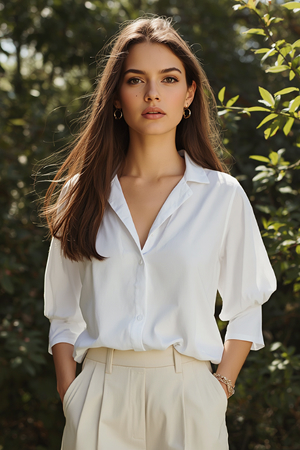
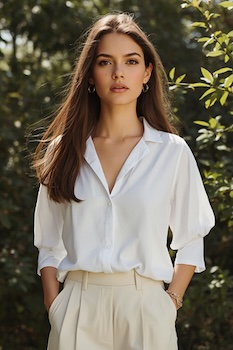
メインの編集

diff --git a/scss/project/_top.scss b/scss/project/_top.scss
@@ -214,3 +214,153 @@
         margin-top: 40px;
     }
 }
+
+@media screen and (max-width: 395px) {
+    .main-collection__newProduct-list__card {
+        padding-right: 20px;
+    }
+}
+
+.main-collection__essential-list {
+    margin-top: 120px;
+}
+
+.main-collection__essential-list__title {
+    padding-left: 20px;
+
+    font-weight: normal;
+    letter-spacing: 0.05rem;
+    color: #ffffff;
+}
+
+.main-collection__essential-list__text {
+    padding-left: 20px;
+
+    font-size: 12px;
+    letter-spacing: 0.05rem;
+    color: #ffffff;
+}
+
+.main-collection__essential-list__inner {
+    padding-left: 20px;
+    padding-right: 20px;
+    margin-top: 40px;
+
+    display: flex;
+    flex-direction: row;
+    column-gap: 20px;
+}
+
+.main-collection__essential-list__card {
+    cursor: pointer;
+}
+
+.main-collection__essential-list__card:hover {
+    background-color: #333333;
+}
+
+.main-collection__essential-list__card-text {
+    padding-top: 10px;
+    padding-left: 20px;
+    padding-bottom: 10px;
+
+    letter-spacing: 0.05rem;
+    color: #ffffff;
+    text-align: center;
+}
+
+@media screen and (max-width: 768px) {
+    .main-collection__essential-list__card-text {
+        font-size: 10px;
+    }
+}
+
+@media screen and (max-width: 395px) {
+    .main-collection__essential-list__inner {
+        flex-direction: column;
+        row-gap: 20px;
+    }
+
+    .main-collection__essential-list__image img {
+        width: 100%;
+        object-fit: cover;
+    }
+}
+
+.main-collection__recommended-list {
+    margin-top: 40px;
+}
+
+.main-collection__recommended-list__title {
+    padding-left: 20px;
+
+    font-weight: normal;
+    letter-spacing: 0.05rem;
+    color: #ffffff;   
+}
+
+.main-collection__recommended-list__text {
+    padding-left: 20px;
+
+    font-size: 12px;
+    letter-spacing: 0.05rem;
+    color: #ffffff;
+}
+
+.main-collection__recommended-list__inner {
+    padding-left: 20px;
+    padding-right: 20px;
+    margin-top: 40px;
+
+    display: flex;
+    flex-direction: row;
+    column-gap: 20px;
+}
+
+.main-collection__recommended-list__card {
+    cursor: pointer;
+}
+
+.main-collection__recommended-list__card:hover {
+    background-color: #333333;
+}
+
+.main-collection__recommended-list__card-text--primary {
+    padding-top: 10px;
+    padding-left: 20px;
+
+    letter-spacing: 0.05rem;
+    color: #ffffff;
+    text-align: center;
+}
+
+.main-collection__recommended-list__card-text--secondary {
+    padding-top: 0px;
+    padding-left: 20px;
+    padding-bottom: 10px;
+
+    letter-spacing: 0.05rem;
+    color: #ffffff;
+    text-align: center;
+}
+
+@media screen and (max-width: 768px) {
+    .main-collection__recommended-list__card-text--primary{
+        font-size: 10px;
+    }
+    
+    .main-collection__recommended-list__card-text--secondary {
+        font-size: 10px;
+    }
+}
+
+@media screen and (max-width: 395px) {
+    .main-collection__recommended-list__inner {
+        flex-direction: column;
+    }
+
+    .main-collection__recommended-list__image img {
+        width: 100%;
+        object-fit: cover;
+    }
+}

diff --git a/assets/css/main.css b/assets/css/main.css
@@ -473,5 +473,138 @@ select {
     margin-top: 40px;
   }
 }
+@media screen and (max-width: 395px) {
+  .main-collection__newProduct-list__card {
+    padding-right: 20px;
+  }
+}
+.main-collection__essential-list {
+  margin-top: 120px;
+}
+
+.main-collection__essential-list__title {
+  padding-left: 20px;
+  font-weight: normal;
+  letter-spacing: 0.05rem;
+  color: #ffffff;
+}
+
+.main-collection__essential-list__text {
+  padding-left: 20px;
+  font-size: 12px;
+  letter-spacing: 0.05rem;
+  color: #ffffff;
+}
+
+.main-collection__essential-list__inner {
+  padding-left: 20px;
+  padding-right: 20px;
+  margin-top: 40px;
+  display: flex;
+  flex-direction: row;
+  column-gap: 20px;
+}
+
+.main-collection__essential-list__card {
+  cursor: pointer;
+}
+
+.main-collection__essential-list__card:hover {
+  background-color: #333333;
+}
+
+.main-collection__essential-list__card-text {
+  padding-top: 10px;
+  padding-left: 20px;
+  padding-bottom: 10px;
+  letter-spacing: 0.05rem;
+  color: #ffffff;
+  text-align: center;
+}
+
+@media screen and (max-width: 768px) {
+  .main-collection__essential-list__card-text {
+    font-size: 10px;
+  }
+}
+@media screen and (max-width: 395px) {
+  .main-collection__essential-list__inner {
+    flex-direction: column;
+    row-gap: 20px;
+  }
+  .main-collection__essential-list__image img {
+    width: 100%;
+    object-fit: cover;
+  }
+}
+.main-collection__recommended-list {
+  margin-top: 40px;
+}
+
+.main-collection__recommended-list__title {
+  padding-left: 20px;
+  font-weight: normal;
+  letter-spacing: 0.05rem;
+  color: #ffffff;
+}
+
+.main-collection__recommended-list__text {
+  padding-left: 20px;
+  font-size: 12px;
+  letter-spacing: 0.05rem;
+  color: #ffffff;
+}
+
+.main-collection__recommended-list__inner {
+  padding-left: 20px;
+  padding-right: 20px;
+  margin-top: 40px;
+  display: flex;
+  flex-direction: row;
+  column-gap: 20px;
+}
+
+.main-collection__recommended-list__card {
+  cursor: pointer;
+}
+
+.main-collection__recommended-list__card:hover {
+  background-color: #333333;
+}
+
+.main-collection__recommended-list__card-text--primary {
+  padding-top: 10px;
+  padding-left: 20px;
+  letter-spacing: 0.05rem;
+  color: #ffffff;
+  text-align: center;
+}
+
+.main-collection__recommended-list__card-text--secondary {
+  padding-top: 0px;
+  padding-left: 20px;
+  padding-bottom: 10px;
+  letter-spacing: 0.05rem;
+  color: #ffffff;
+  text-align: center;
+}
+
+@media screen and (max-width: 768px) {
+  .main-collection__recommended-list__card-text--primary {
+    font-size: 10px;
+  }
+  .main-collection__recommended-list__card-text--secondary {
+    font-size: 10px;
+  }
+}
+@media screen and (max-width: 395px) {
+  .main-collection__recommended-list__inner {
+    flex-direction: column;
+  }
+  .main-collection__recommended-list__image img {
+    width: 100%;
+    object-fit: cover;
+  }
+}
 
 /*# sourceMappingURL=main.css.map */

diff --git a/front-page.php b/front-page.php
@@ -91,11 +91,72 @@
             </div>
 
             <div class="main-collection__essential-list">
-            
+                <h2 class="main-collection__essential-list__title">
+                    ESSENTIAL
+                </h2>
+                <p class="main-collection__essential-list__text">
+                    定番コレクション
+                </p>
+
+                <div class="main-collection__essential-list__inner">
+                    <div class="main-collection__essential-list__card">
+                        <div class="main-collection__essential-list__image">
+                            <img src="<?php  echo get_template_directory_uri() . "/assets/images/mce1.jpg"?>" alt="ベージュのコート着た女性">
+                        </div>
+                        <p class="main-collection__essential-list__card-text">
+                            ESSENTIAL&nbsp;OUTER
+                        </p>
+                    </div>
+                    <div class="main-collection__essential-list__card">
+                        <div class="main-collection__essential-list__image">
+                            <img src="<?php  echo get_template_directory_uri() . "/assets/images/mce2.jpg"?>" alt="白シャツを着た女性">
+                        </div>
+                        <p class="main-collection__essential-list__card-text">
+                            ESSENTIAL&nbsp;TOP
+                        </p>
+                    </div>
+                    <div class="main-collection__essential-list__card">
+                        <div class="main-collection__essential-list__image">
+                            <img src="<?php  echo get_template_directory_uri() . "/assets/images/mce3.jpg"?>" alt="グレーのパンツとサングラスをかけている女性">
+                        </div>
+                        <p class="main-collection__essential-list__card-text">
+                            ESSENTIAL&nbsp;BOTTOMS
+                        </p>
+                    </div>
+                </div>
             </div>
 
             <div class="main-collection__recommended-list">
-                
+                <h2 class="main-collection__recommended-list__title">
+                    RECOMMENDED
+                </h2>
+                <p class="main-collection__recommended-list__text">
+                    おすすめ商品
+                </p>
+
+                <div class="main-collection__recommended-list__inner">
+                    <div class="main-collection__recommended-list__card">
+                        <div class="main-collection__recommended-list__image">
+                            <img src="<?php  echo get_template_directory_uri() . "/assets/images/mcr1.jpg"?>" alt="ベージュのコート着た女性">
+                        </div>
+                        <p class="main-collection__recommended-list__card-text--primary">Relaxed Tailored Coat</p>
+                        <p class="main-collection__recommended-list__card-text--secondary">¥22,800</p>
+                    </div>
+                    <div class="main-collection__recommended-list__card">
+                        <div class="main-collection__recommended-list__image">
+                            <img src="<?php  echo get_template_directory_uri() . "/assets/images/mcr2.jpg"?>" alt="白シャツを着た女性">
+                        </div>
+                        <p class="main-collection__recommended-list__card-text--primary">Essential Camisole</p>
+                        <p class="main-collection__recommended-list__card-text--secondary">¥7,900</p>
+                    </div>
+                    <div class="main-collection__recommended-list__card">
+                        <div class="main-collection__recommended-list__image">
+                            <img src="<?php  echo get_template_directory_uri() . "/assets/images/mcr3.jpg"?>" alt="グレーのパンツとサングラスをかけている女性">
+                        </div>
+                        <p class="main-collection__recommended-list__card-text--primary">Wide Tapered Slacks</p>
+                        <p class="main-collection__recommended-list__card-text--secondary">¥12,800</p>
+                    </div>
+                </div>
             </div>
         </section>
 
